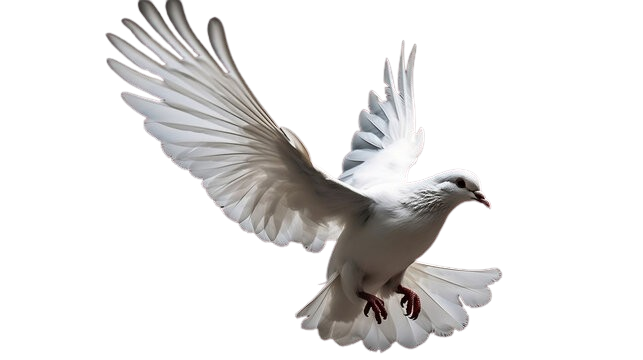
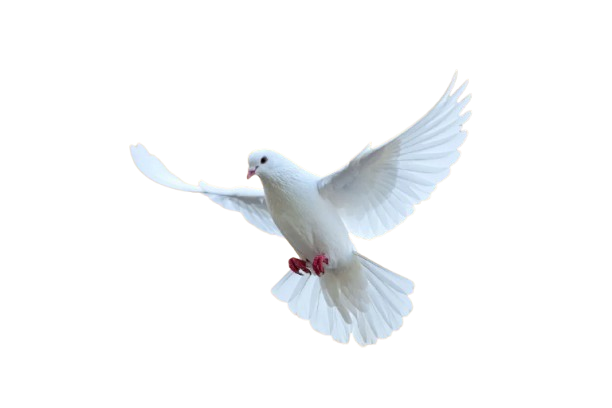
Add files via upload

Changed region(s): [[0.1552, 0.0, 0.7761, 0.9778]]

diff --git a/index.html b/index.html
@@ -5,6 +5,7 @@
   <meta name="viewport" content="width=device-width, initial-scale=1.0">
   <title>Maria & Adrien - Wedding Invitation</title>
   
+  <!-- Google Fonts -->
   <link rel="preconnect" href="https://fonts.googleapis.com">
   <link rel="preconnect" href="https://fonts.gstatic.com" crossorigin>
   <link href="https://fonts.googleapis.com/css2?family=Alex+Brush&family=Cormorant+Garamond:wght@400;500;600&family=Montserrat:wght@300;400;500&display=swap" rel="stylesheet">
@@ -27,7 +28,7 @@
       min-height: 100vh;
     }
 
-    /* Mobile First Container - Mimicking Tilda / Mobile view */
+    /* Mobile First Container */
     .mobile-container {
       width: 100%;
       max-width: 480px;
@@ -205,13 +206,6 @@
     }
 
     /* Image Divider Sections */
-    .full-width-image {
-      width: 100%;
-      height: auto;
-      display: block;
-      margin: 30px 0;
-    }
-
     .rounded-image {
       width: calc(100% - 40px);
       margin: 20px auto;
@@ -247,7 +241,7 @@
       display: flex;
       justify-content: center;
       gap: 10px;
-      margin-bottom: 40px;
+      margin-bottom: 30px;
     }
 
     .color-swatch {
@@ -256,21 +250,74 @@
       border-radius: 8px;
     }
 
-    /* Polaroid Gallery & Outfits */
-    .outfit-grid {
-      display: flex;
-      flex-direction: column;
-      gap: 30px;
-      padding: 0 10px;
+    /* Custom Layout for Outfits Section - Matching Design precisely */
+    .outfits-container {
+      position: relative;
+      padding: 10px 0;
+      margin-top: 10px;
     }
 
+    .men-text-block {
+      text-align: left;
+      padding-left: 20px;
+      max-width: 55%;
+      font-size: 1.05rem;
+      color: #555;
+      line-height: 1.3;
+      position: relative;
+      margin-bottom: -20px;
+      z-index: 2;
+    }
+
+    .men-text-block strong {
+      display: block;
+      font-size: 1.2rem;
+      color: #222;
+      font-weight: normal;
+    }
+
+    .arrow-down-right {
+      width: 60px;
+      height: 35px;
+      margin-top: 10px;
+      margin-left: 40px;
+    }
+
+    .women-text-block {
+      text-align: right;
+      padding-right: 20px;
+      margin-left: auto;
+      max-width: 55%;
+      font-size: 1.05rem;
+      color: #555;
+      line-height: 1.3;
+      position: relative;
+      margin-top: -30px;
+      z-index: 4;
+    }
+
+    .women-text-block strong {
+      display: block;
+      font-size: 1.2rem;
+      color: #222;
+      font-weight: normal;
+    }
+
+    .arrow-down-left {
+      width: 60px;
+      height: 35px;
+      margin-top: 10px;
+      margin-right: 40px;
+    }
+
+    /* Custom Polaroid Styling */
     .polaroid-card {
       background: #ffffff;
-      padding: 12px 12px 25px 12px;
-      box-shadow: 0 4px 15px rgba(0, 0, 0, 0.08);
-      border-radius: 4px;
-      width: 80%;
-      margin: 0 auto;
+      padding: 8px 8px 18px 8px;
+      box-shadow: 0 4px 15px rgba(0, 0, 0, 0.1);
+      border-radius: 2px;
+      position: relative;
+      transition: transform 0.3s ease;
     }
 
     .polaroid-card img {
@@ -279,26 +326,28 @@
       display: block;
     }
 
-    .outfit-info {
-      text-align: left;
-      font-size: 0.95rem;
-      color: #555;
-      line-height: 1.4;
-      margin: 15px 0;
+    /* Overlapping & Sizing according to reference image */
+    .card-men {
+      width: 58%;
+      margin-left: auto;
+      margin-right: 20px;
+      transform: rotate(5deg);
+      z-index: 1;
     }
 
-    .outfit-info strong {
-      display: block;
-      font-size: 1.1rem;
-      color: #222;
-      margin-bottom: 5px;
+    .card-group {
+      width: 62%;
+      margin: -40px auto 0 auto;
+      transform: rotate(-1deg);
+      z-index: 2;
     }
 
-    /* Curved Arrow SVGs */
-    .arrow-svg {
-      width: 50px;
-      height: 30px;
-      margin-top: 5px;
+    .card-women {
+      width: 58%;
+      margin-top: -30px;
+      margin-left: 20px;
+      transform: rotate(-6deg);
+      z-index: 3;
     }
 
     /* Section 5: RSVP Form */
@@ -426,6 +475,7 @@
 
   <div class="mobile-container">
 
+    <!-- Hero Section -->
     <section class="hero-section">
       <div class="top-info">
         <div class="top-info-block">
@@ -447,17 +497,19 @@
       </div>
     </section>
 
+    <!-- Intro Message Section -->
     <section class="intro-section">
       <h2 class="script-font">Dear friends and family!</h2>
       <p class="intro-text">
-        This spring a very special and happy event is going to happen - our wedding.
+        This spring a very special and happy event is going to happen - our wedding
       </p>
       <p class="intro-text">
-        It is impossible to imagine this day without our closest people. Thus, we are happy to invite you to join and share this wonderful occasion with us.
+        It is impossible to imagine this day without our closest people. Thus, we are happy to invite you to join and share this wonderful occasion with us
       </p>
       <img src="images/dove.png" alt="White Dove" class="dove-img">
     </section>
 
+    <!-- Event Timeline Section -->
     <h2 class="timeline-title script-font">Event timeline</h2>
     <div class="card-box">
       <div class="card-badge">24 March</div>
@@ -496,14 +548,17 @@
       </div>
     </div>
 
+    <!-- Middle Image Banner -->
     <div class="rounded-image">
       <img src="images/couple-umbrella.jpg" alt="Couple under umbrella">
     </div>
 
+    <!-- Dress Code Section -->
     <section class="dresscode-section">
       <h2 class="script-font">Dress code</h2>
       <p class="dresscode-desc">We would be very happy if your outfit is in the colours of the wedding theme.</p>
 
+      <!-- Color Palette Swatches -->
       <div class="color-palette">
         <div class="color-swatch" style="background-color: #f3ece4;"></div>
         <div class="color-swatch" style="background-color: #d8d8d8;"></div>
@@ -512,33 +567,41 @@
         <div class="color-swatch" style="background-color: #2b2b2a;"></div>
       </div>
 
-      <div class="outfit-grid">
+      <!-- Outfits Section with Correct Layout & Curved Arrows -->
+      <div class="outfits-container">
         
-        <div class="outfit-info">
+        <!-- Men Text & Arrow -->
+        <div class="men-text-block">
           <strong>Men:</strong>
           Suits, jackets, shirts, grey, champagne, black colours.
-          <svg class="arrow-svg" viewBox="0 0 50 30" fill="none" stroke="#333" stroke-width="1">
-            <path d="M 5,5 Q 25,25 45,15 M 40,20 L 45,15 L 42,10" />
+          <svg class="arrow-down-right" viewBox="0 0 60 40" fill="none" stroke="#444" stroke-width="1.2">
+            <path d="M 5,5 Q 35,5 48,30" />
+            <path d="M 40,25 L 48,30 L 52,20" />
           </svg>
         </div>
 
-        <div class="polaroid-card" style="transform: rotate(3deg);">
+        <!-- Polaroid 1: Men -->
+        <div class="polaroid-card card-men">
           <img src="images/men-outfit.jpg" alt="Men Outfit">
         </div>
 
-        <div class="polaroid-card" style="transform: rotate(-2deg);">
+        <!-- Polaroid 2: Group (Center) -->
+        <div class="polaroid-card card-group">
           <img src="images/women-outfit-1.jpg" alt="Bridesmaids Outfit">
         </div>
 
-        <div class="polaroid-card" style="transform: rotate(2deg);">
+        <!-- Polaroid 3: Women -->
+        <div class="polaroid-card card-women">
           <img src="images/women-outfit-2.jpg" alt="Women Outfit">
         </div>
 
-        <div class="outfit-info" style="text-align: right;">
+        <!-- Women Text & Arrow -->
+        <div class="women-text-block">
           <strong>Women:</strong>
           Cocktail dresses or suits, champagne, grey colours.
-          <svg class="arrow-svg" viewBox="0 0 50 30" fill="none" stroke="#333" stroke-width="1" style="transform: scaleX(-1);">
-            <path d="M 5,5 Q 25,25 45,15 M 40,20 L 45,15 L 42,10" />
+          <svg class="arrow-down-left" viewBox="0 0 60 40" fill="none" stroke="#444" stroke-width="1.2">
+            <path d="M 55,5 Q 25,5 12,30" />
+            <path d="M 20,25 L 12,30 L 8,20" />
           </svg>
         </div>
 
@@ -549,6 +612,7 @@
       </p>
     </section>
 
+    <!-- RSVP Section -->
     <div class="card-box">
       <h2 class="script-font" style="text-align: center; font-size: 2.2rem; margin-bottom: 20px;">Please confirm your attendance</h2>
       
@@ -584,6 +648,7 @@
       </form>
     </div>
 
+    <!-- Organizational Aspects Section -->
     <section class="org-section">
       <h2 class="script-font">Organizational aspects</h2>
       <p class="intro-text">
@@ -595,13 +660,16 @@
       </p>
     </section>
 
+    <!-- Couple Running Image -->
     <div class="rounded-image">
       <img src="images/couple-running.jpg" alt="Couple running">
     </div>
 
+    <!-- Location Section -->
     <section style="text-align: center; padding-top: 20px;">
       <h2 class="script-font" style="font-size: 2.3rem;">The location</h2>
       
+      <!-- Embedded Google Map -->
       <div class="map-container">
         <iframe 
           src="https://www.google.com/maps/embed?pb=!1m18!1m12!1m3!1d2560.213233800262!2d14.4013401!3d50.0869687!2m2!1f0!2f0!3f0!3m2!1i1024!2i768!4f13.1!3m3!1m2!1s0x470b94e3347f8a79%3A0xb214f48866e41b99!2sVrtba%20Garden!5e0!3m2!1sen!2s!4v1700000000000!5m2!1sen!2s" 
@@ -611,6 +679,7 @@
       </div>
     </section>
 
+    <!-- Footer Section -->
     <footer class="footer-section">
       <div class="script-font">Hope to see you there</div>
       <div class="names">Maria and Adrien</div>
